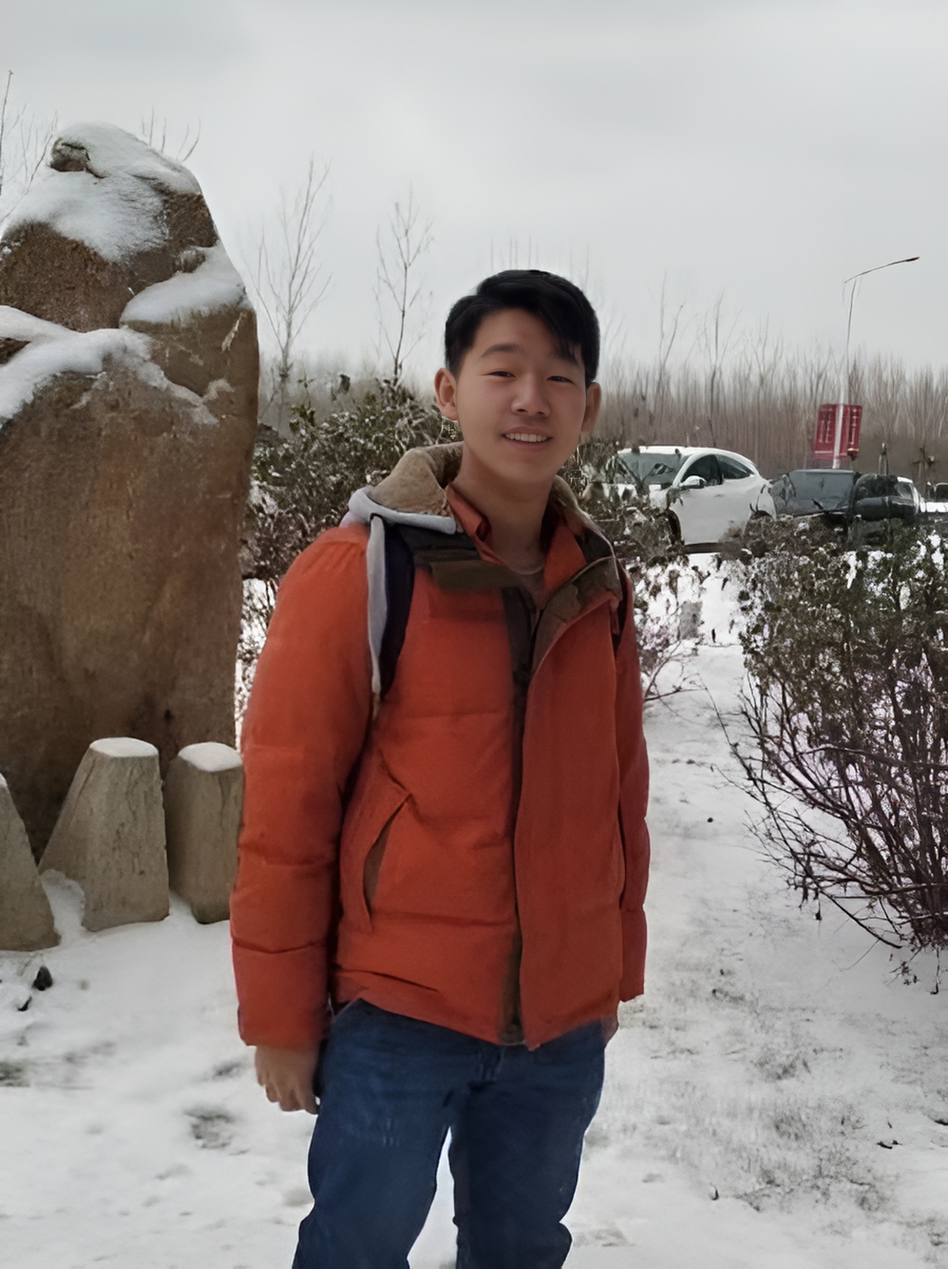
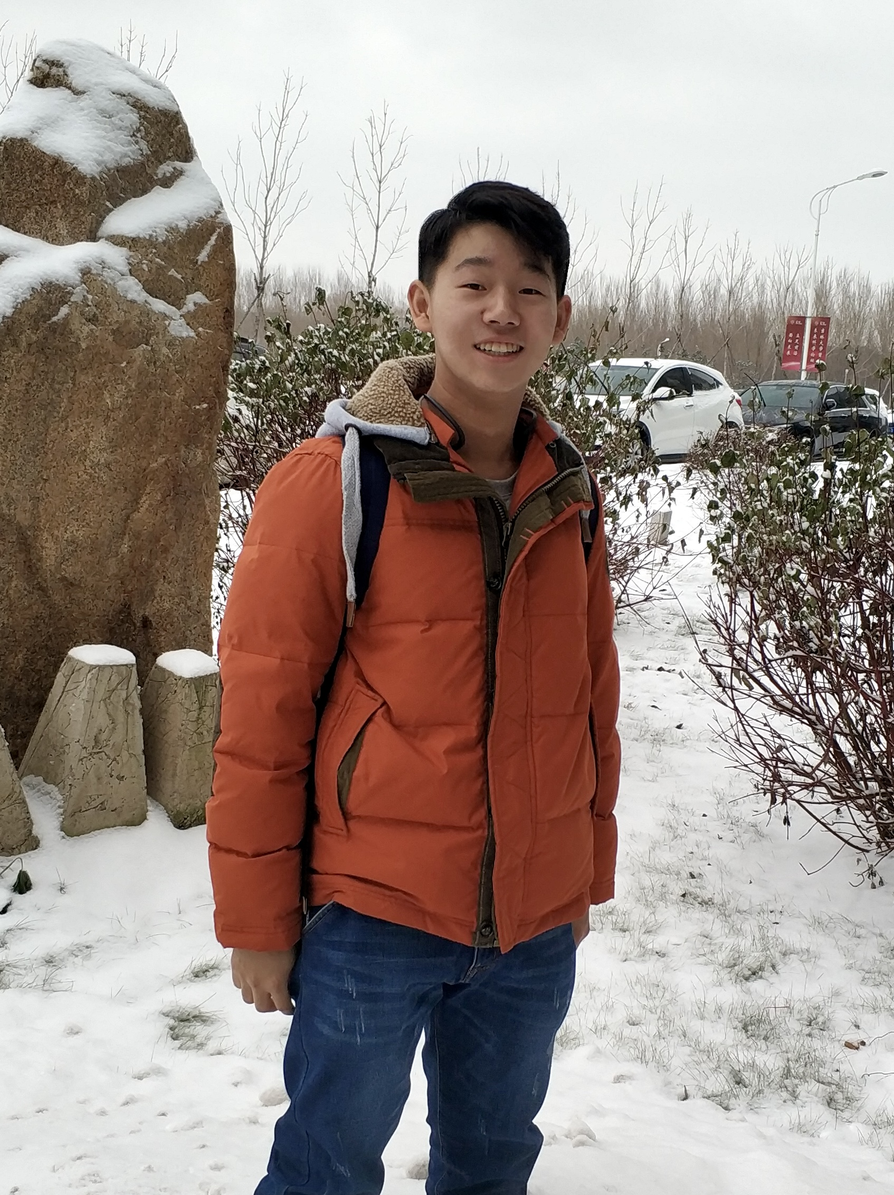
modify img

diff --git a/index.html b/index.html
@@ -2350,7 +2350,7 @@ For undergraduate students, remote internships and summer internships are availa
     <p style='font-weight:bold;'>Graduate Student</p>
     <div class='people-image-container'>
        
-        <img class='people-image' src="/img/members/personal%20photo%20-%20HUANG%20Xuhong.jpg" alt="Drawing" />
+        <img class='people-image' src="/img/members/HUANG%20Xuhong.jpg" alt="Drawing" />
        
       <div class='social-links'>
        
